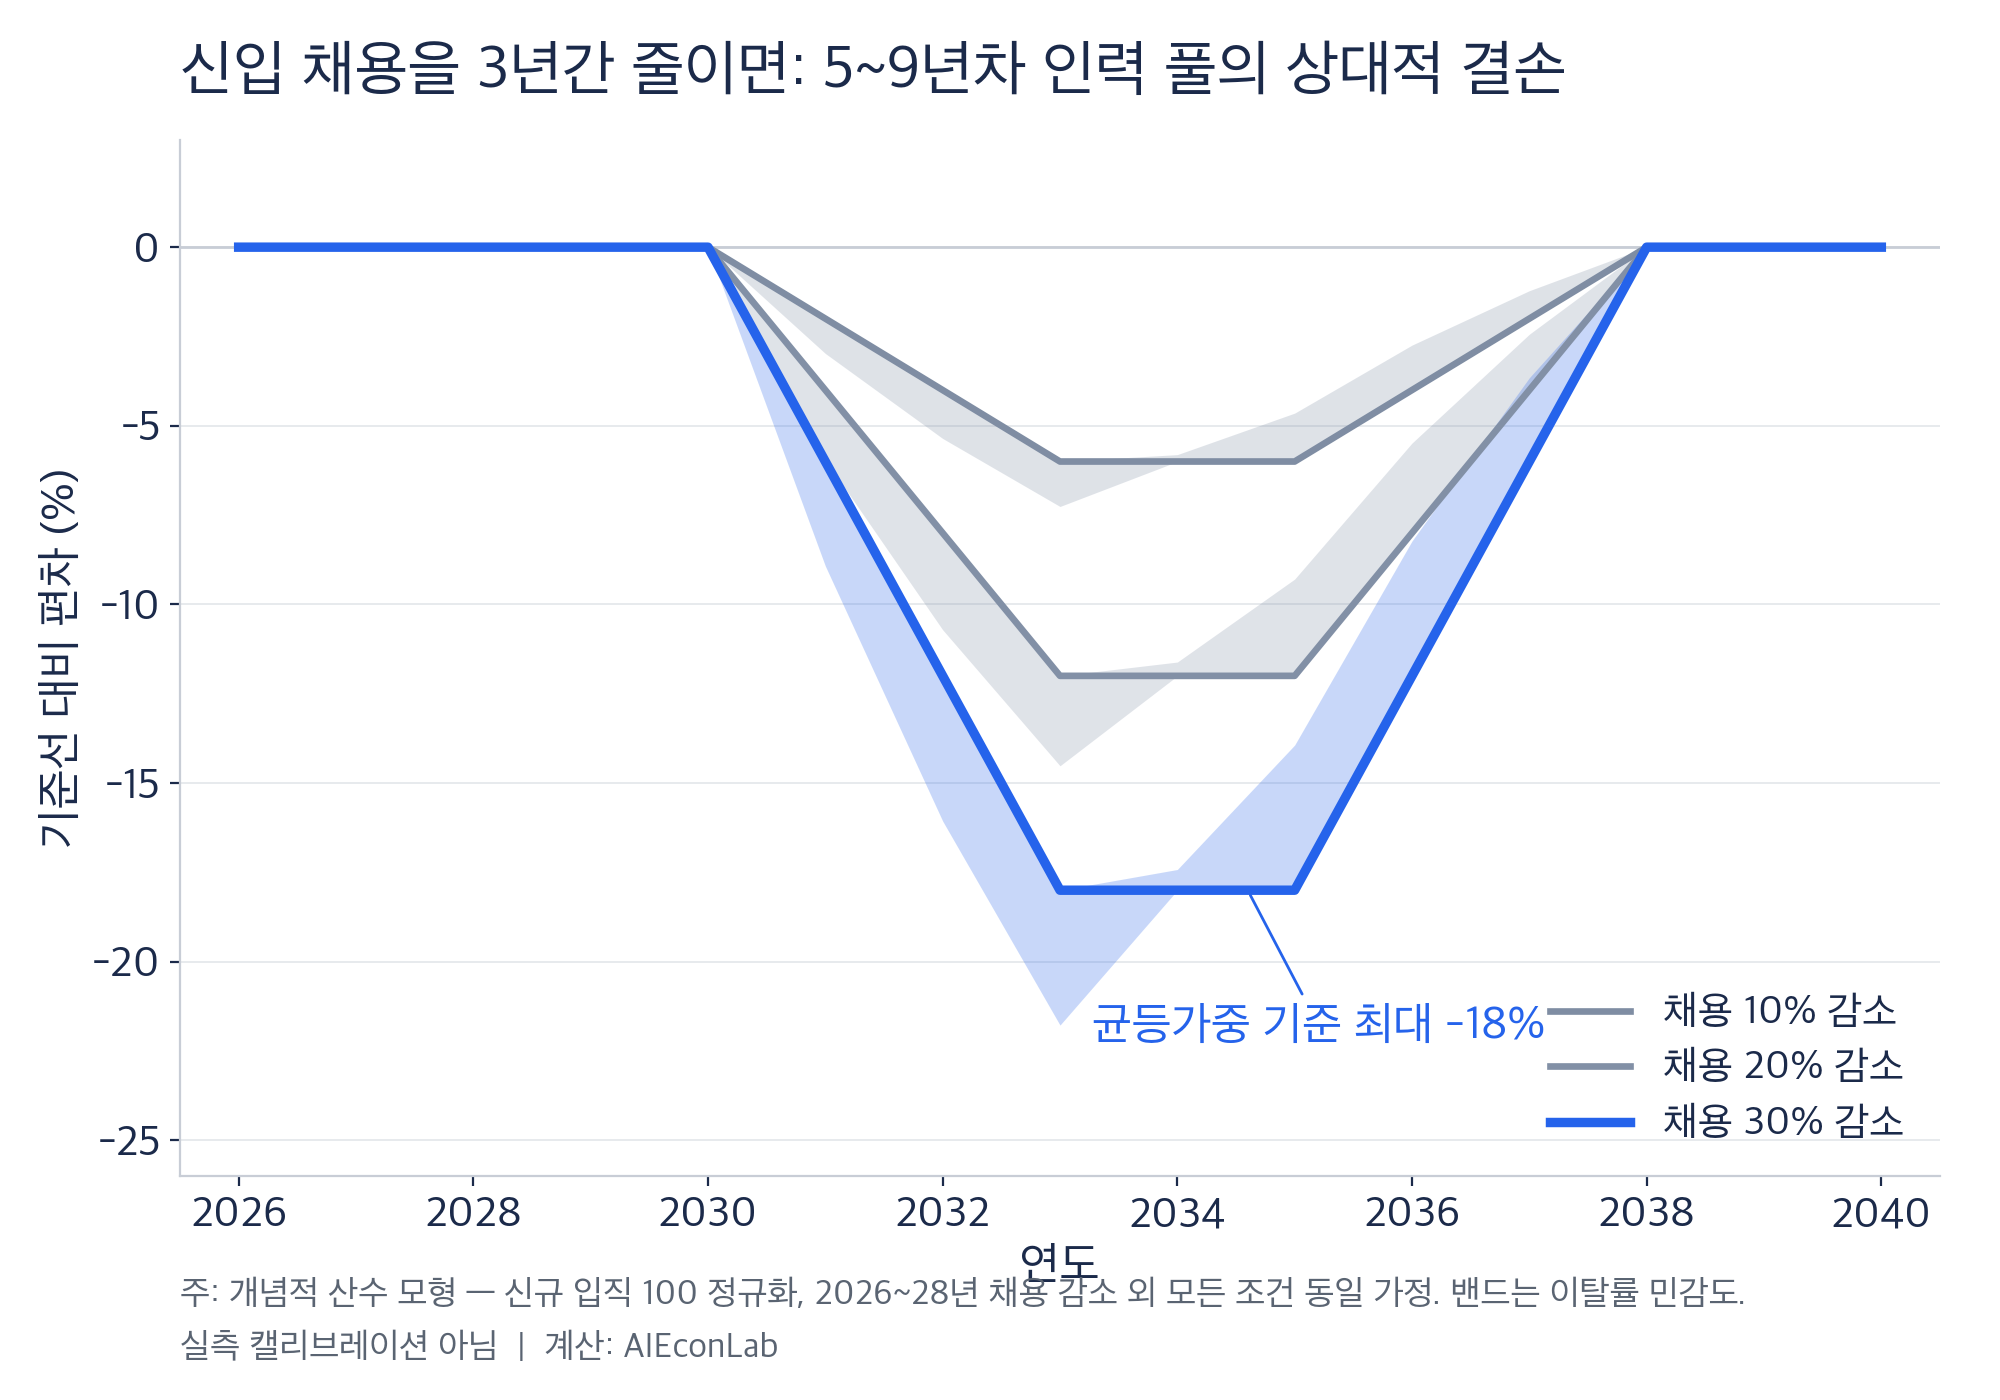
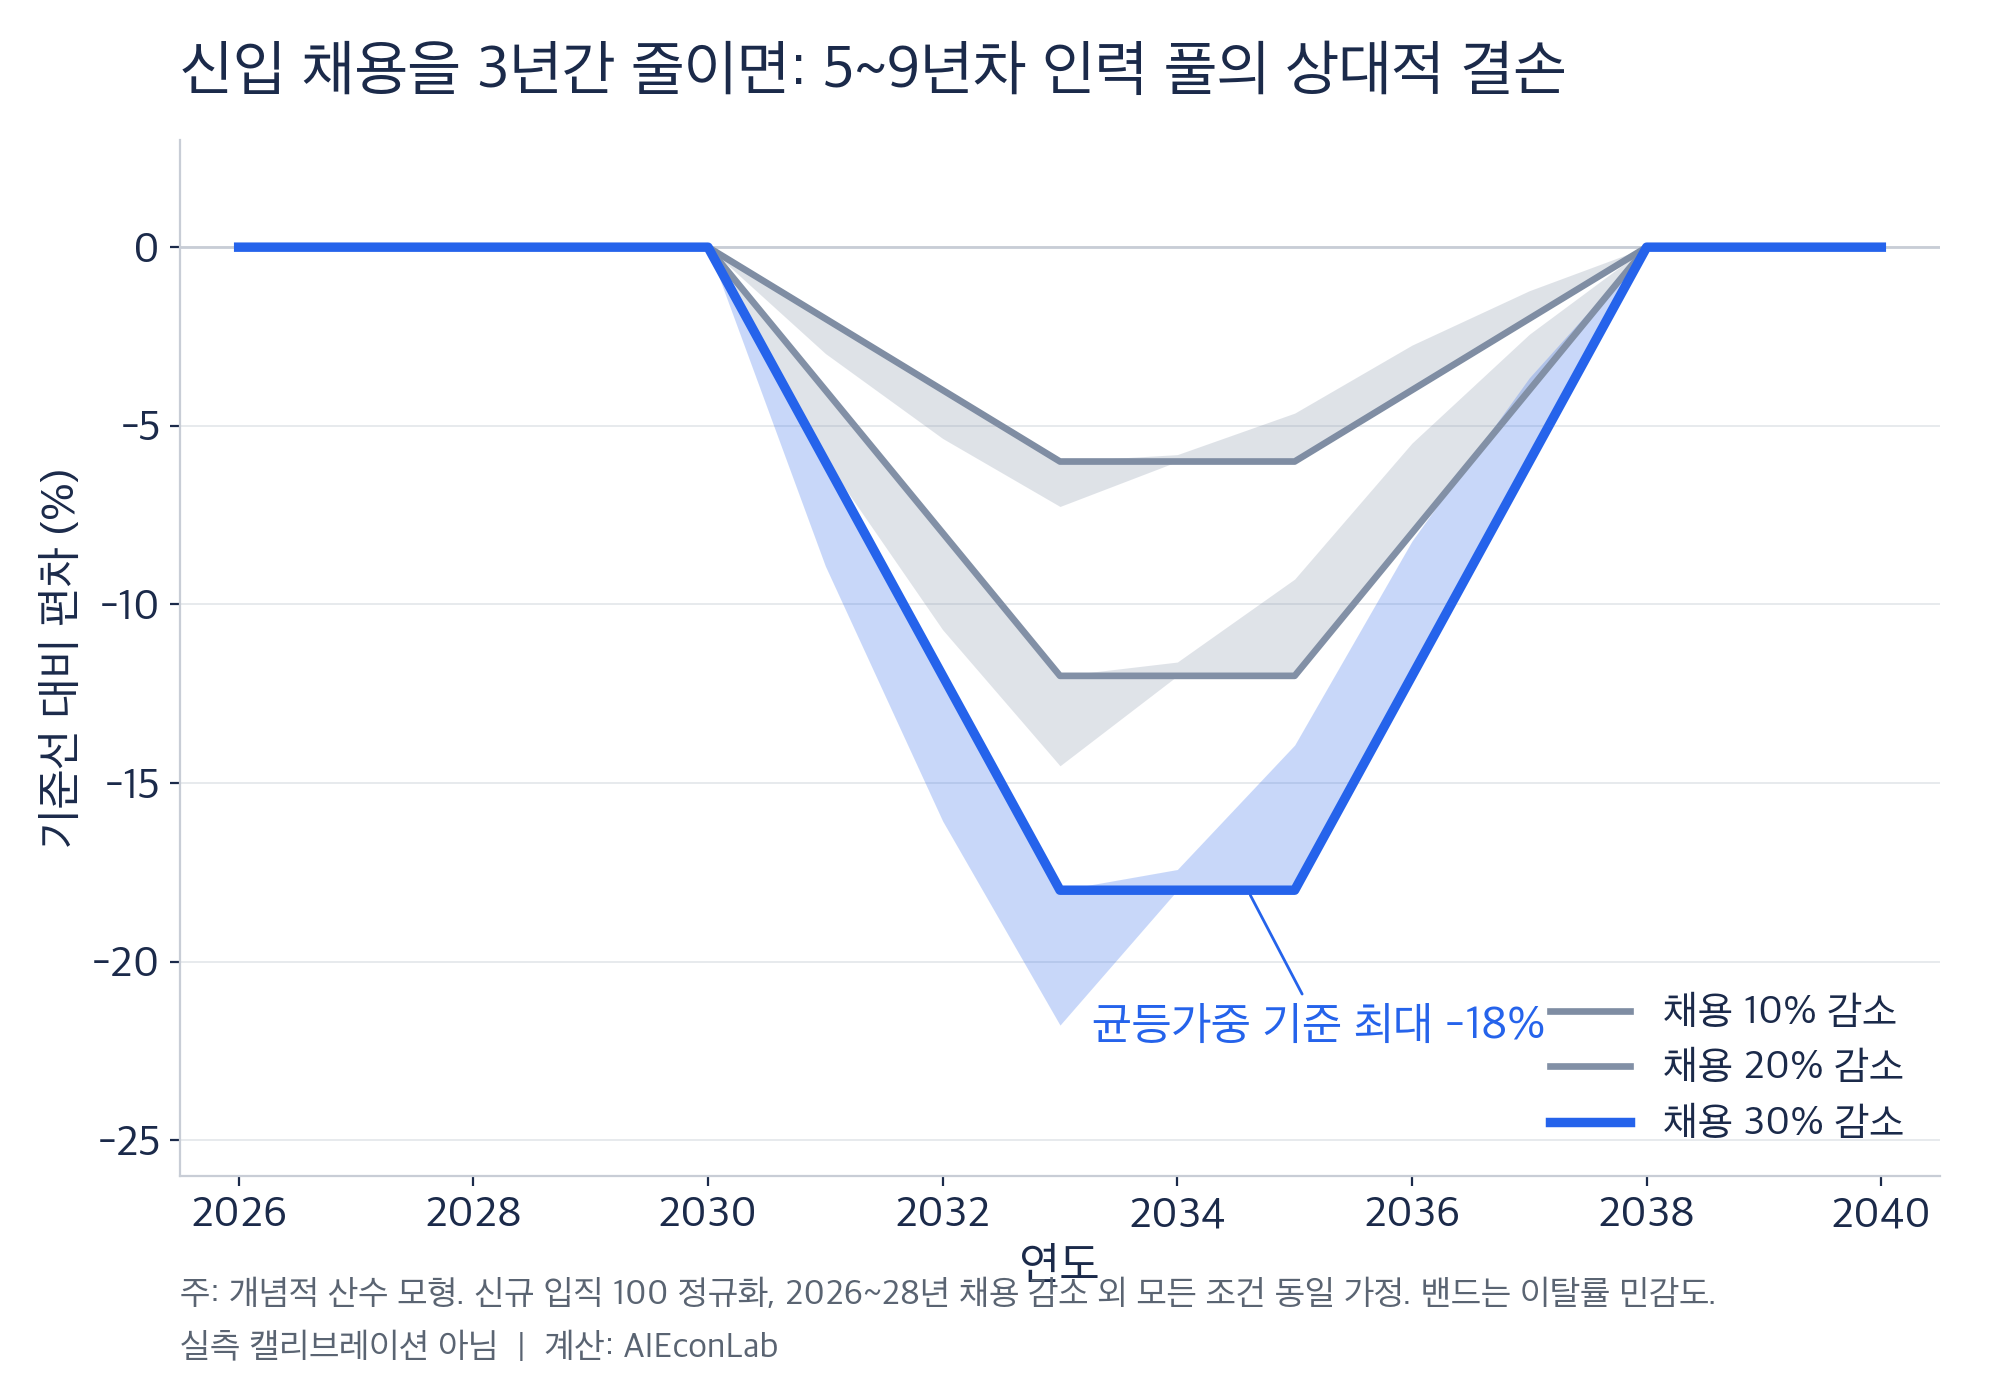
fix: 게시글 문장부호와 목차 앵커 교정

Changed region(s): [[0.248, 0.8907, 0.868, 0.9521]]

diff --git a/layouts/_default/single.html b/layouts/_default/single.html
@@ -4,7 +4,9 @@
 
 {{ if $isBlog }}
 {{ $hasTOC := and (gt .WordCount 600) (in .TableOfContents "<li>") }}
-{{ $toc := replace .TableOfContents ` id="TableOfContents"` "" | safeHTML }}
+{{ $toc := replace .TableOfContents ` id="TableOfContents"` "" }}
+{{/* The site-wide base URL makes hash-only links resolve against the homepage. */}}
+{{ $toc = replace $toc `href="#` (printf `href="%s#` .RelPermalink) | safeHTML }}
 
 <section class="section article-section">
   <div class="container">

diff --git a/docs/03-analysis/entry-seniorization/scripts/fig03_sim.py b/docs/03-analysis/entry-seniorization/scripts/fig03_sim.py
@@ -8,7 +8,7 @@
 - 5~9년차 풀 P(t) = Σ_{k=5..9} w_k · H(t−k).
 - 기본 가중: 균등(w_k=1). 민감도: w_k = p^k, p∈{0.80, 0.90} (연 일정 비율 이탈).
 
-산술 검증: 균등 가중에서 최대 결손은 −0.6δ(2033~35년) — 5개 코호트 창 중
+산술 검증: 균등 가중에서 최대 결손은 −0.6δ(2033~35년)입니다. 5개 코호트 창 중
 3개가 축소 코호트인 데서 나오는 결과. 스크립트가 assert로 확인한다.
 
 사용법: python3 fig03_sim.py [--out PNG] [--json JSON] [--font FONT]
@@ -146,7 +146,7 @@ def main():
         t.set_color(NAVY)
 
     fig.subplots_adjust(left=0.09, right=0.97, top=0.90, bottom=0.16)
-    fig.text(0.09, 0.068, "주: 개념적 산수 모형 — 신규 입직 100 정규화, 2026~28년 채용 감소 외 모든 조건 동일 가정. 밴드는 이탈률 민감도.",
+    fig.text(0.09, 0.068, "주: 개념적 산수 모형. 신규 입직 100 정규화, 2026~28년 채용 감소 외 모든 조건 동일 가정. 밴드는 이탈률 민감도.",
              fontsize=12.5, color=NOTE)
     fig.text(0.09, 0.03, "실측 캘리브레이션 아님  |  계산: AIEconLab",
              fontsize=12.5, color=NOTE)